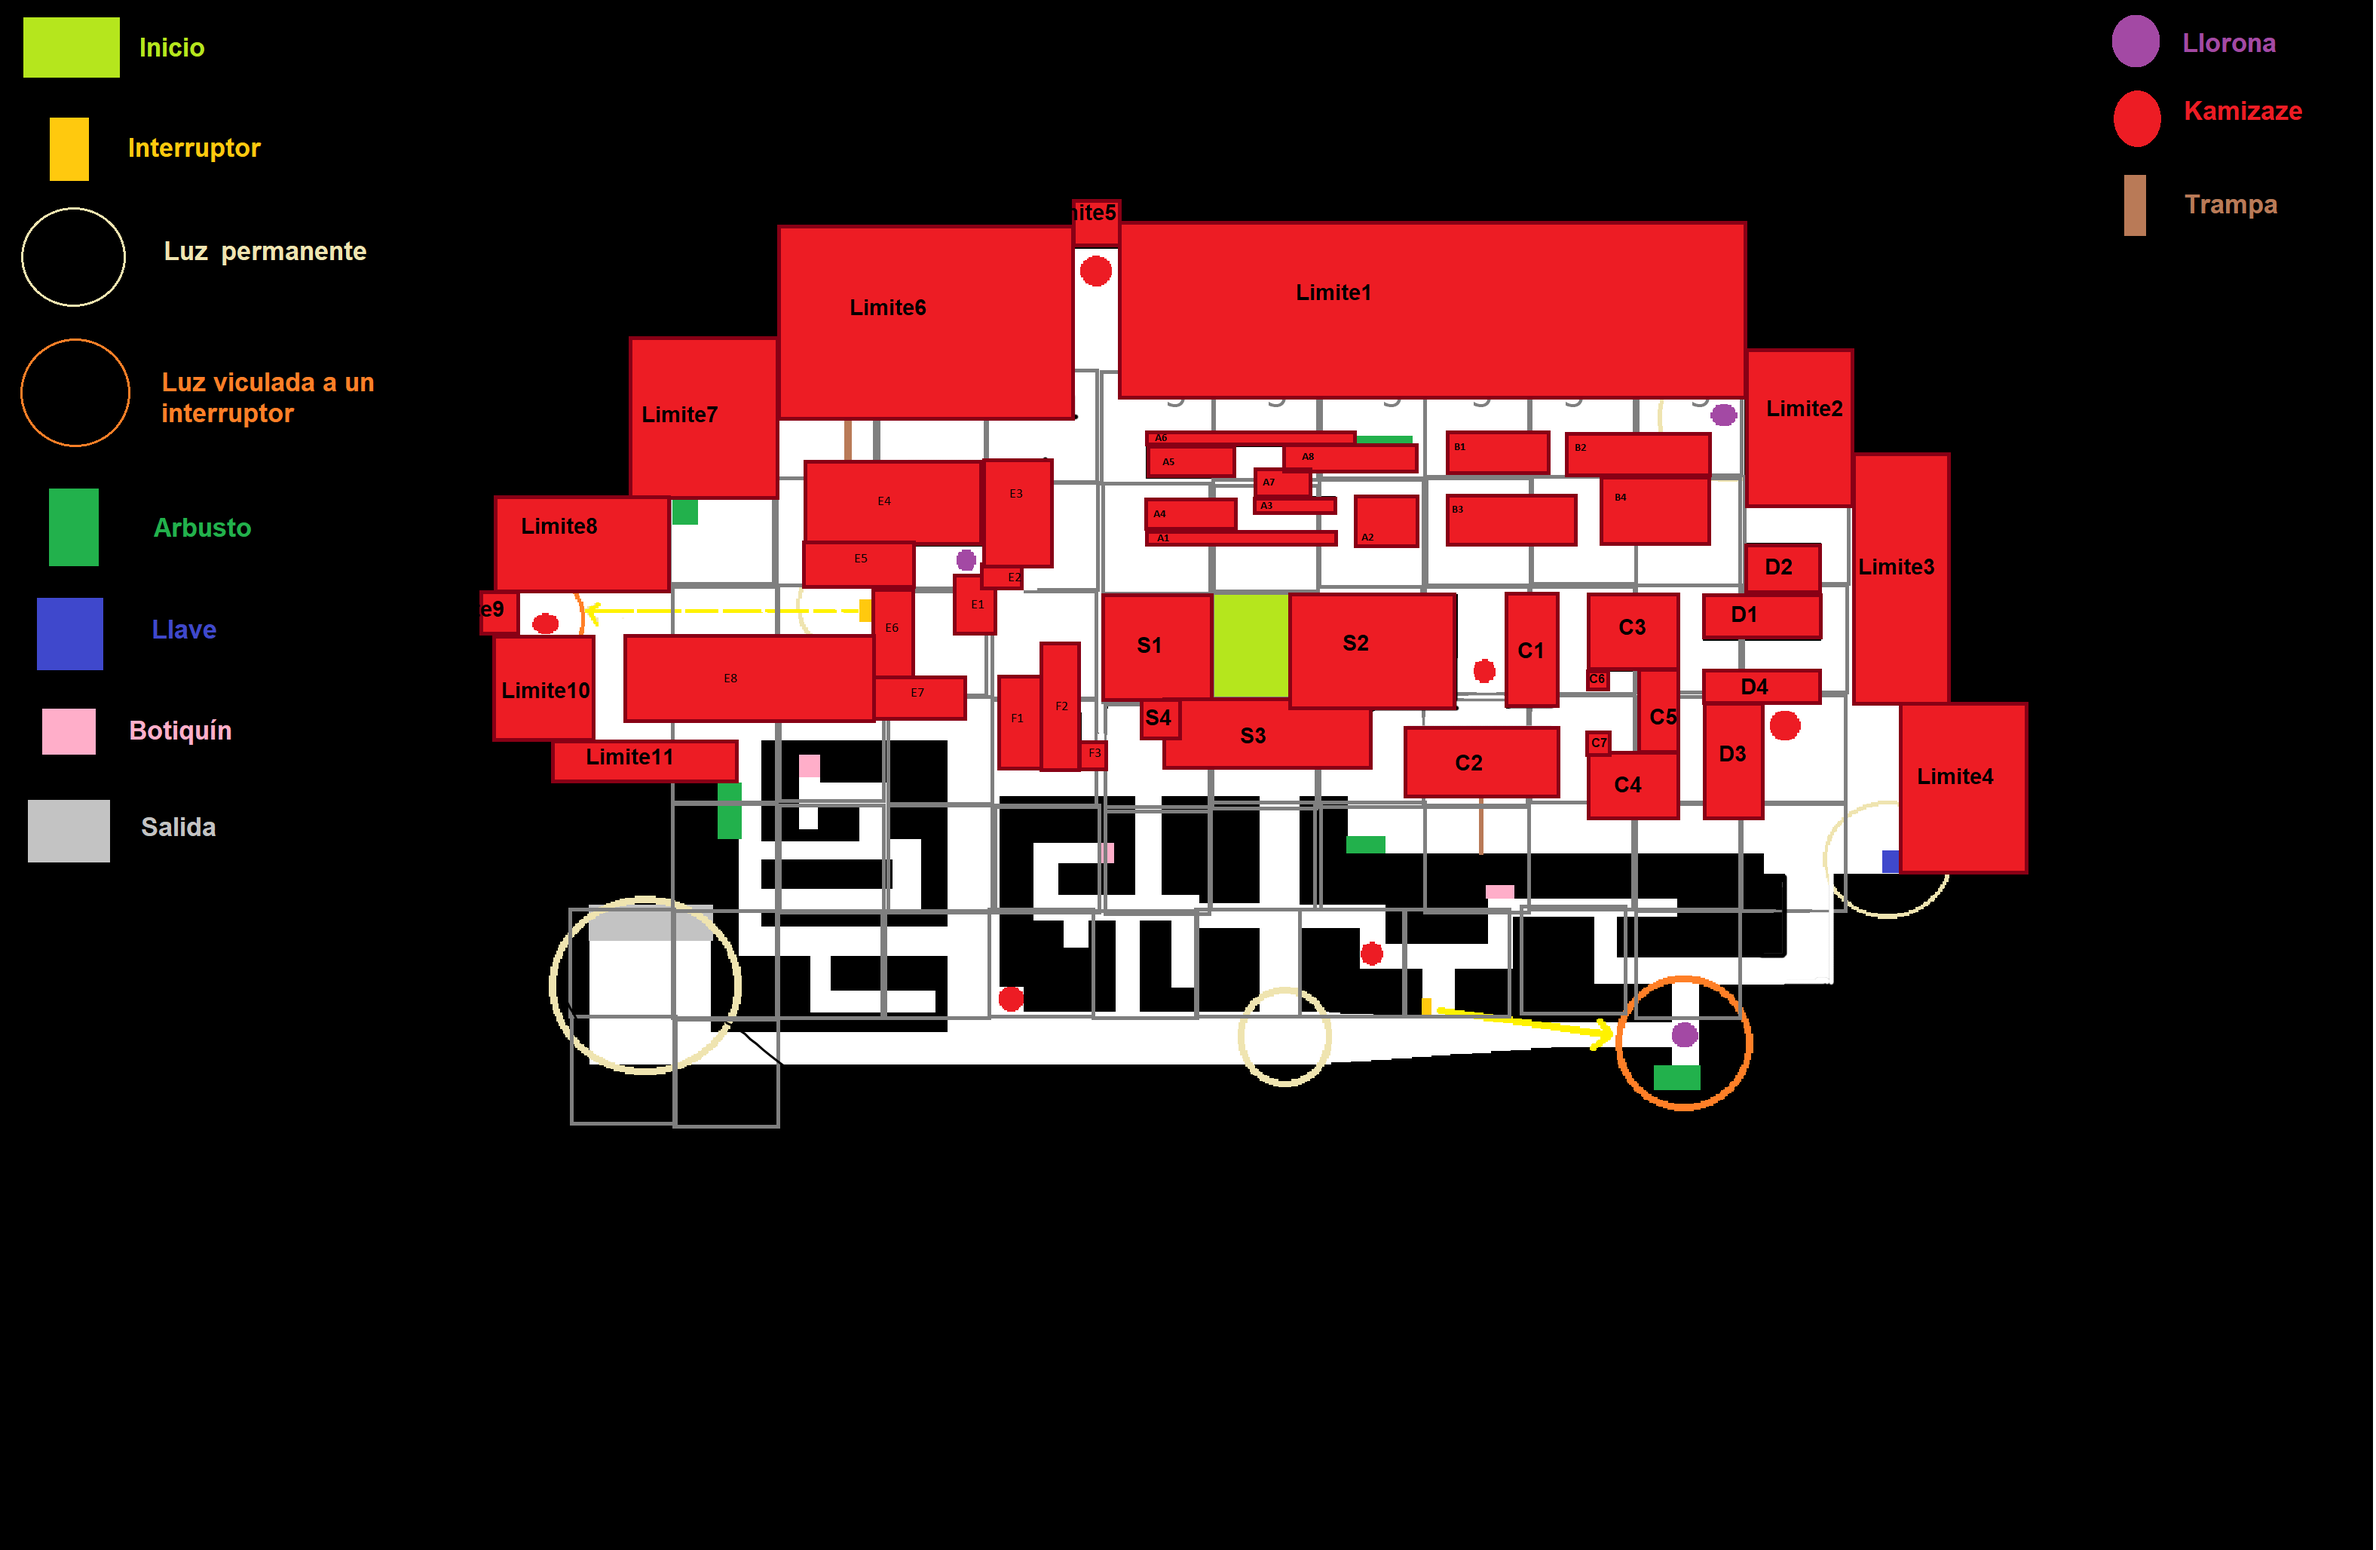
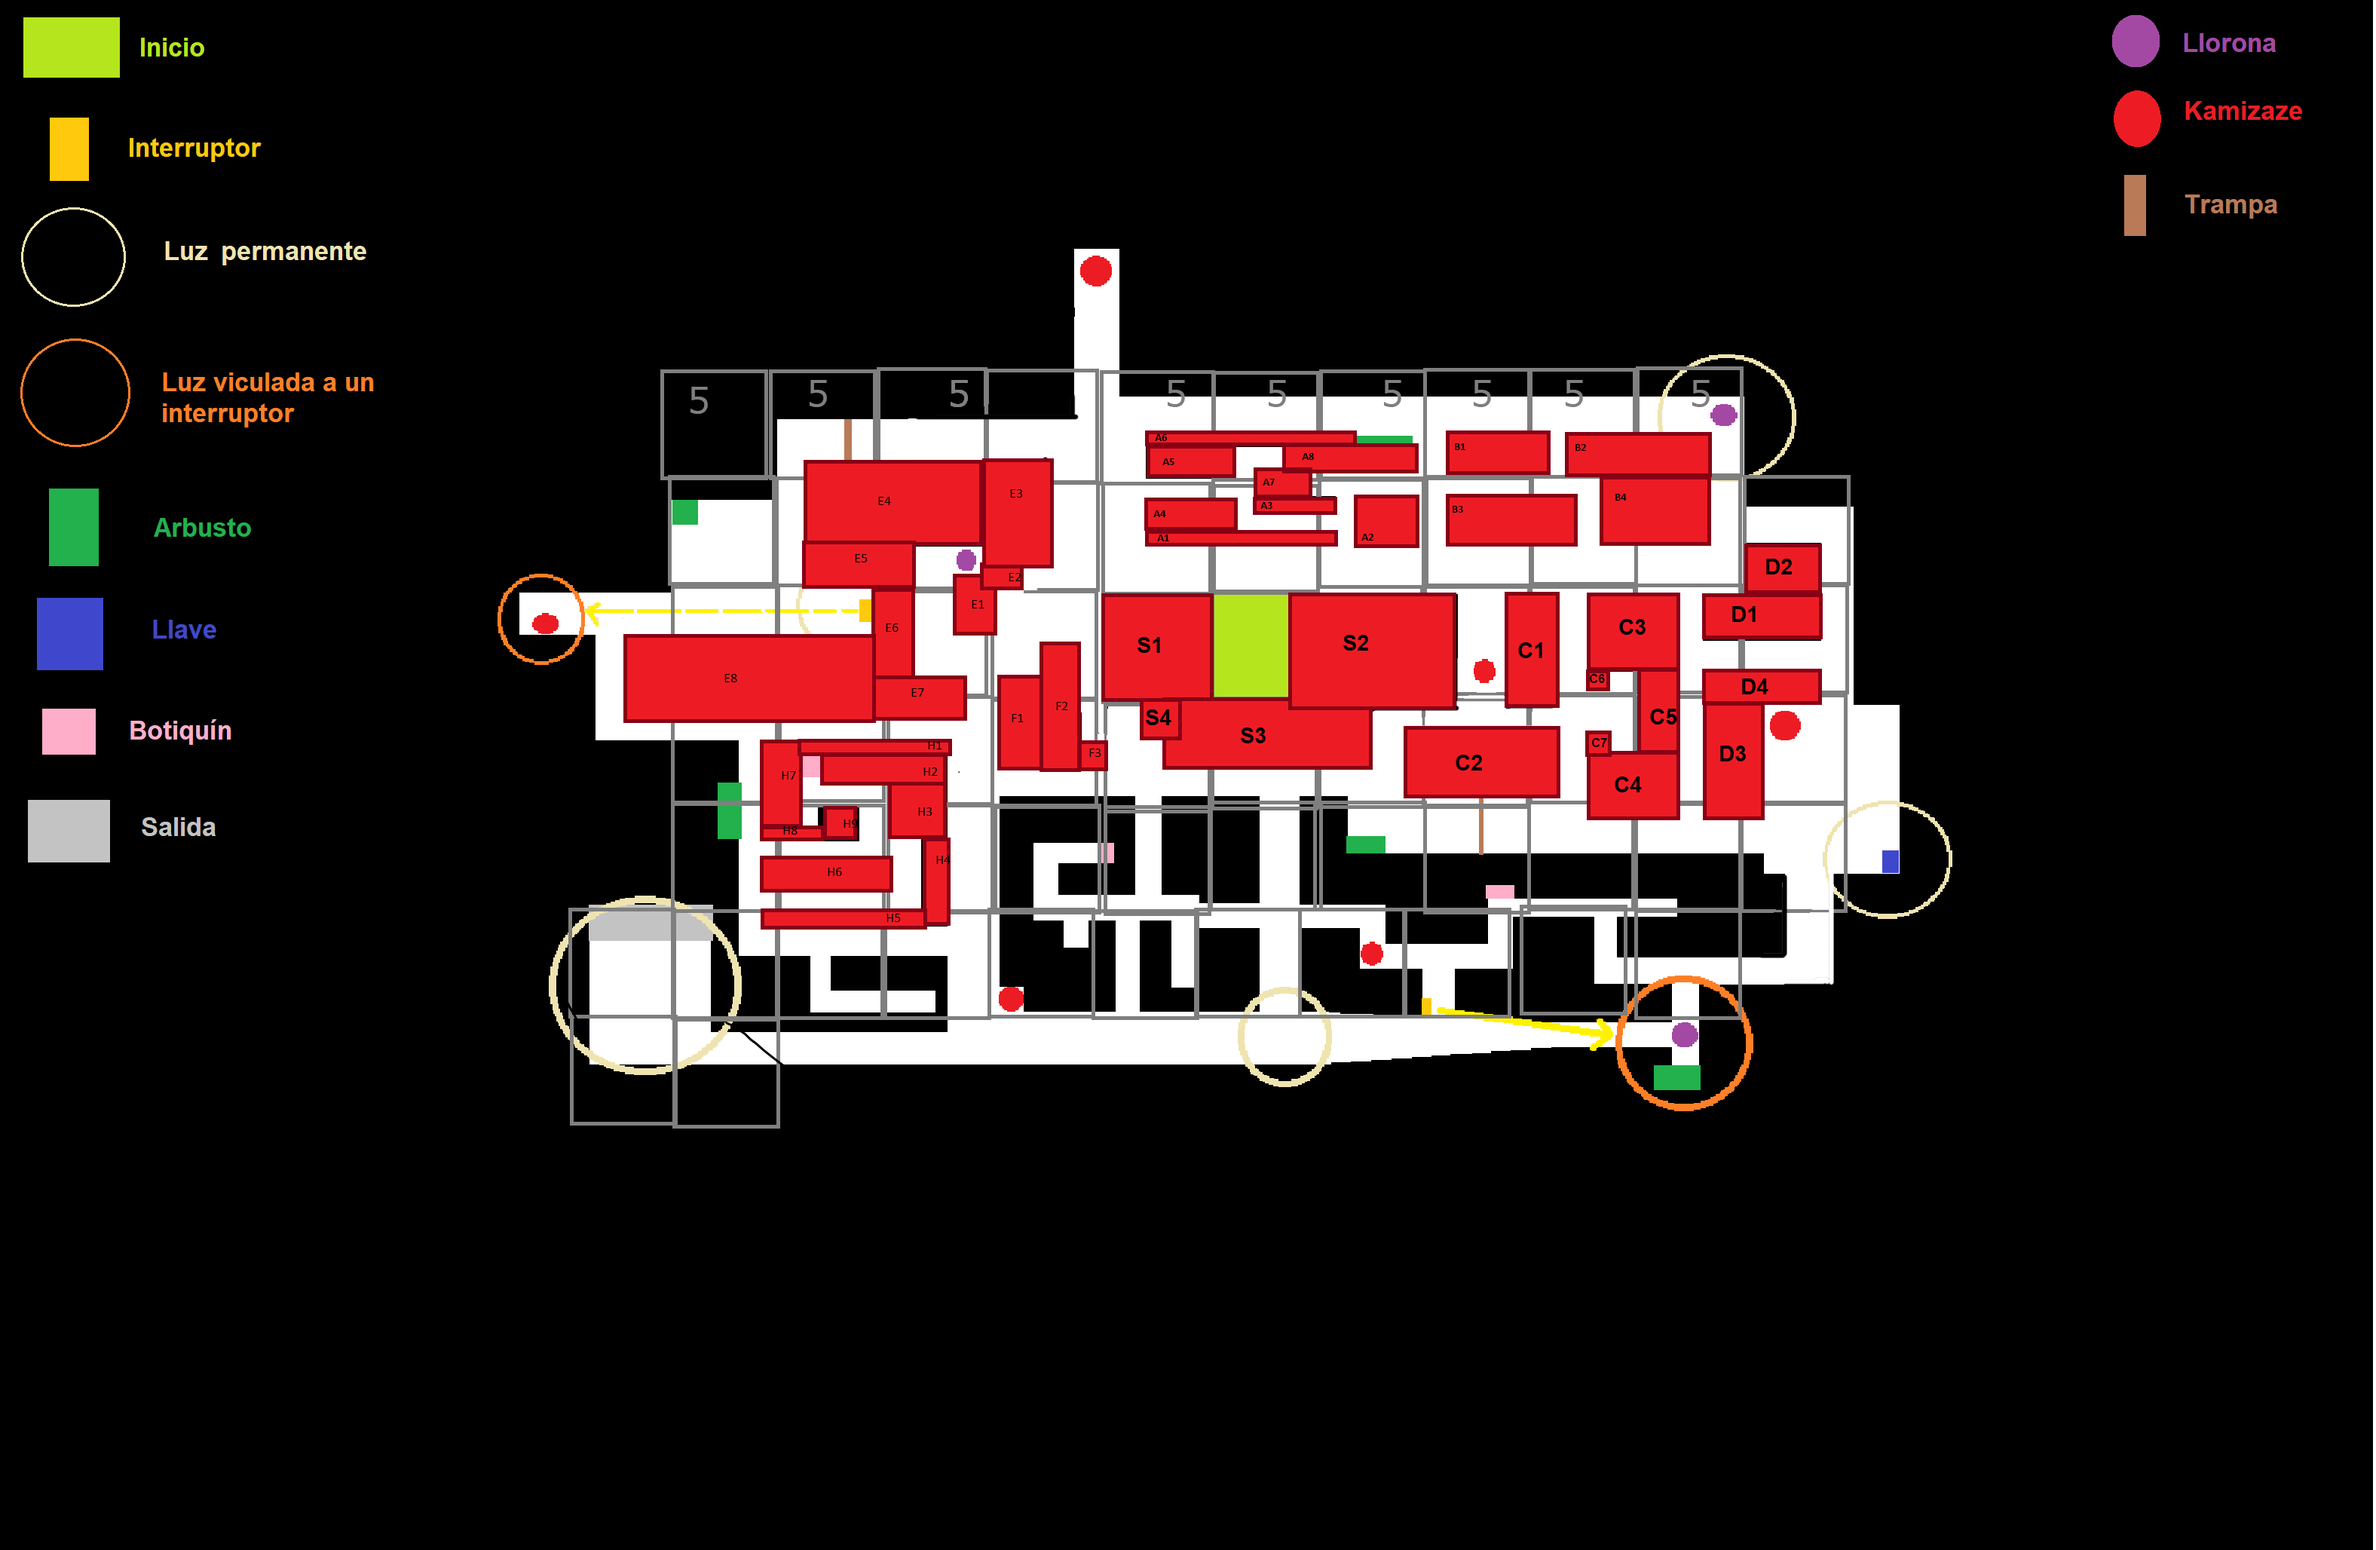
Mergeada zona F y empezada H

Changed region(s): [[0.1865, 0.1245, 0.8706, 0.6226]]

diff --git a/Src/main.cpp b/Src/main.cpp
@@ -18,7 +18,7 @@ WinMain(HINSTANCE zhInstance, HINSTANCE prevInstance, LPSTR lpCmdLine, int nCmdS
 		prueba->init("Assets/prueba.cfg", "Assets/Levels");
 		GameManager::CreateInstance();
 		GameManager::getInstance()->init(MAX_LEVELS);
-		prueba->changeScene("menu.lua");
+		prueba->changeScene("nivel1.lua");
 		prueba->run();
 	}
 	catch (const ExcepcionTAD& e) {
